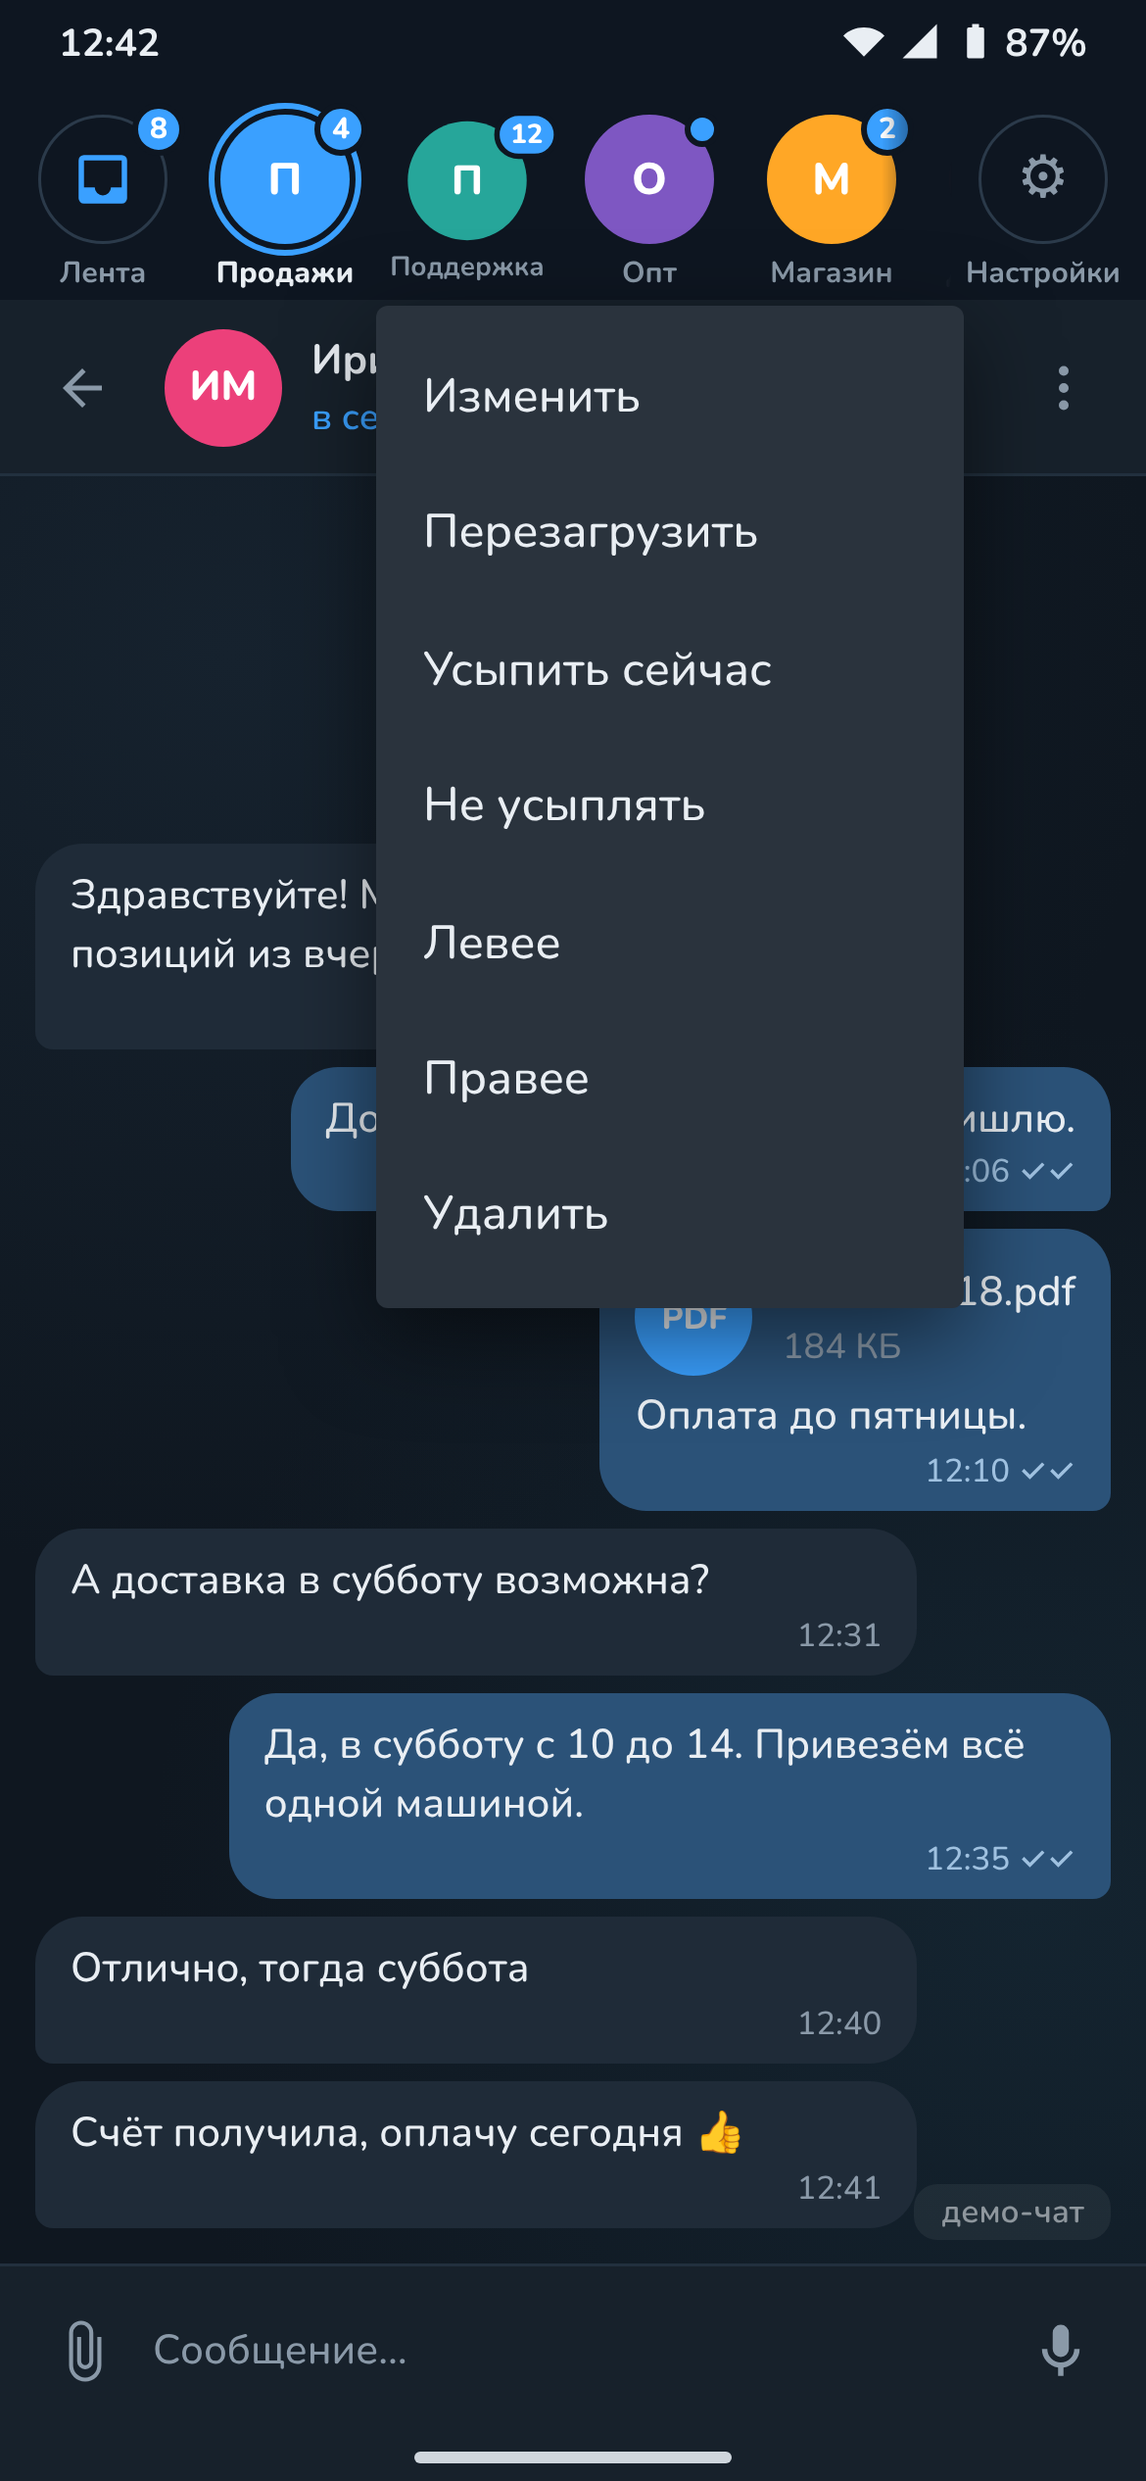
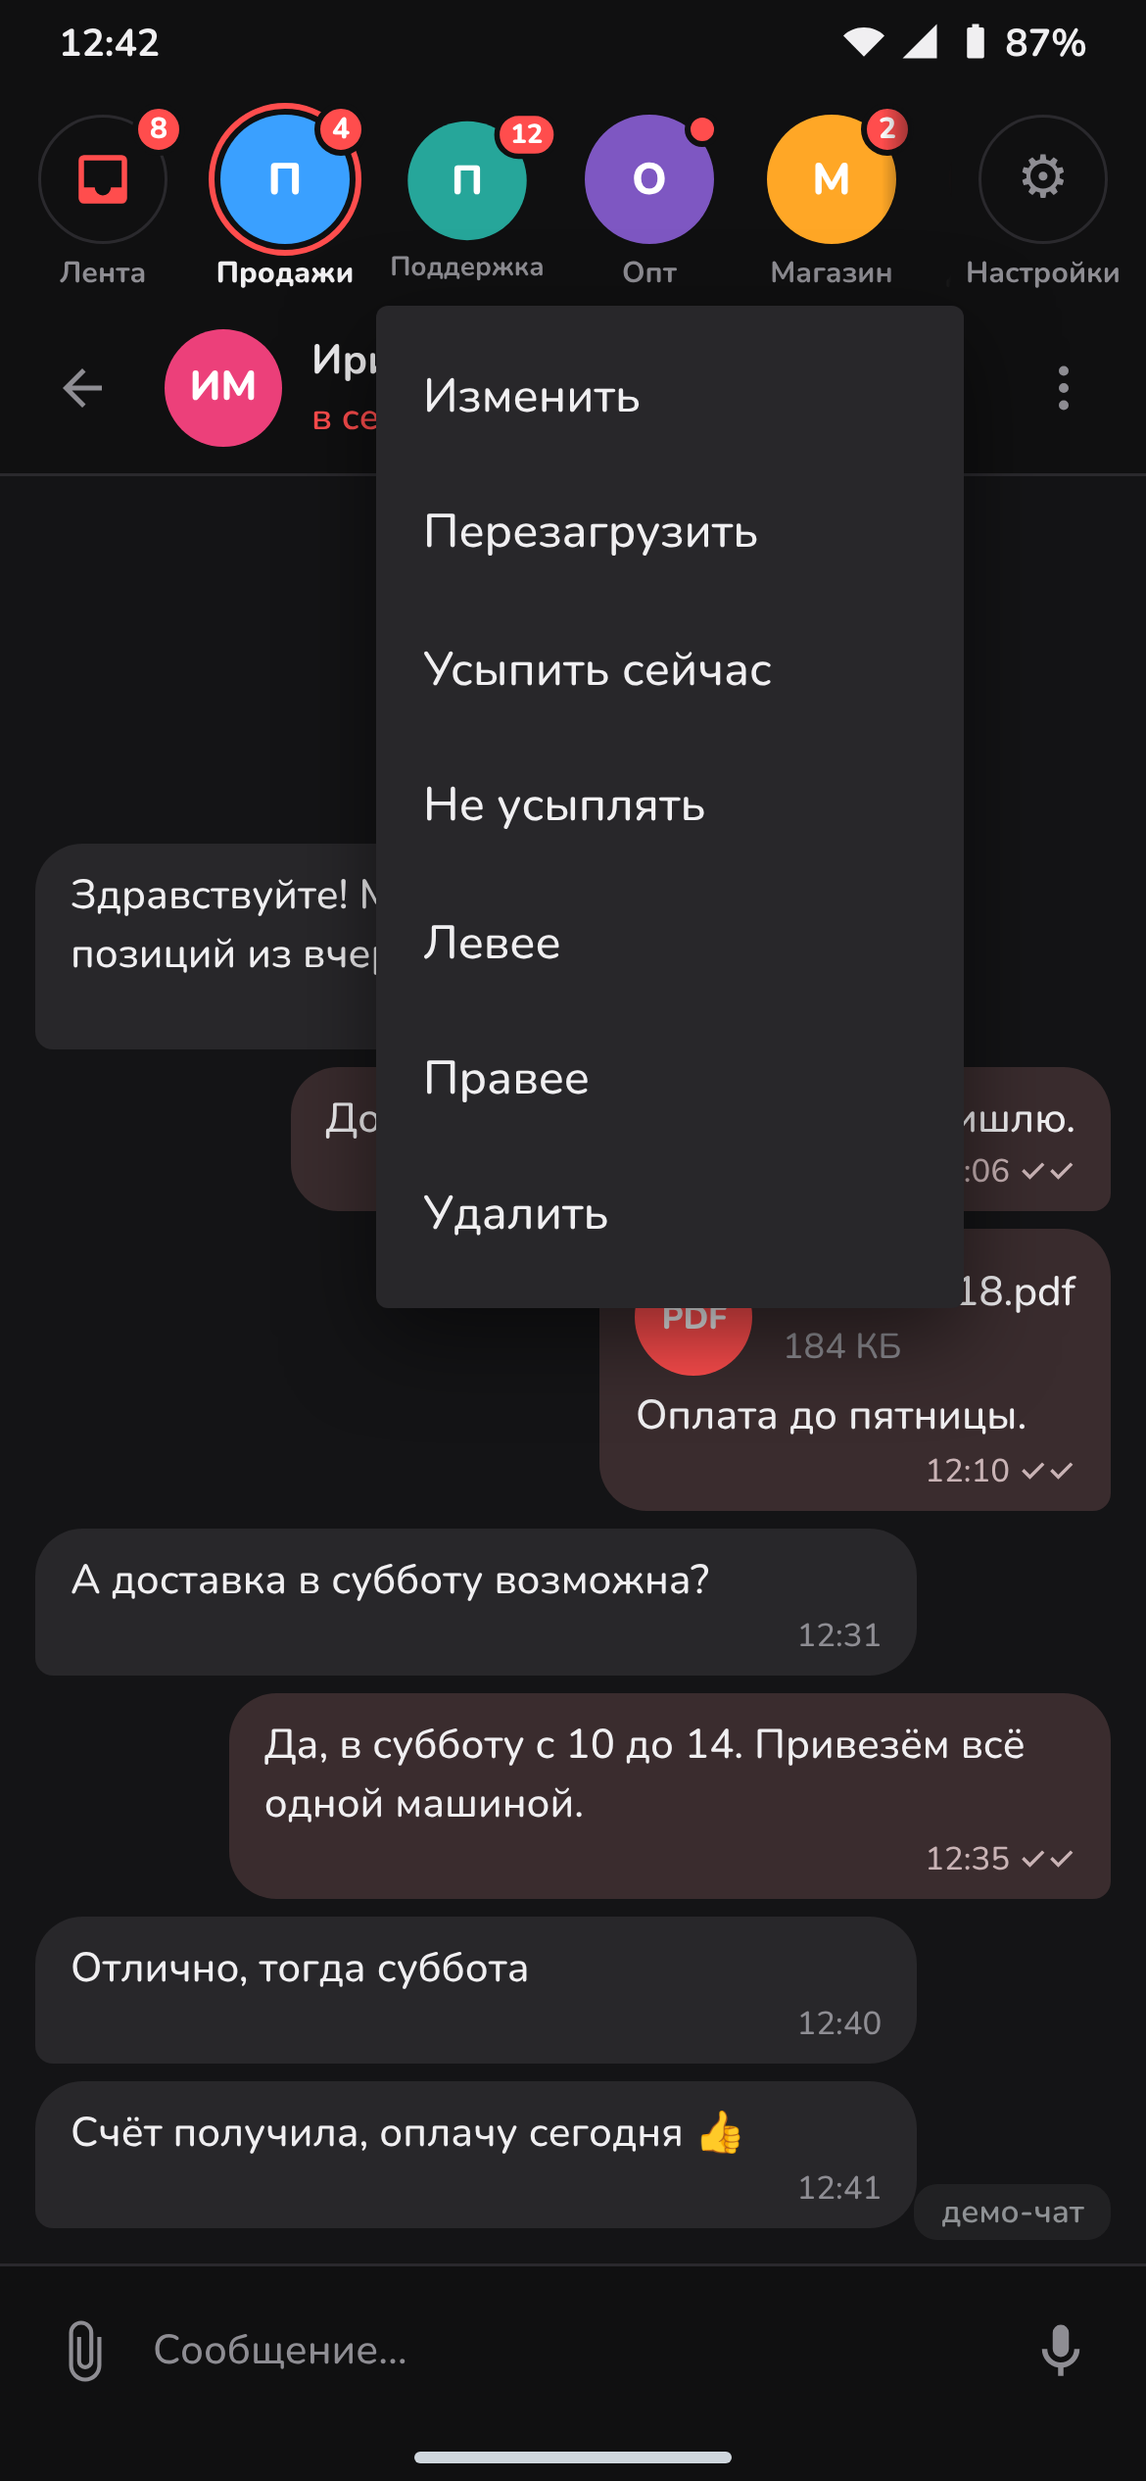
Match Gem Space's palette: near-black surfaces, red accent, light theme too
The rail, overlays and the Android account bar used a navy theme that stood apart from the Gem
Space page next to them. They now use Gem Space's own neutral dark (#101011, #1d1c1f, #2a292d)
and its red (#ff4d4d) for the active account, badges and buttons, with a light variant when the
system is light. A 1px line separates the rail from the page, as Gem Space separates its columns.

Claude-Session: https://claude.ai/code/session_01CRM8nFGG7VZVC9La9kUpL5

diff --git a/desktop/ui/style.css b/desktop/ui/style.css
@@ -7,16 +7,18 @@
 }
 
 :root {
-  --bg: #17212b;
-  --rail: #0e1621;
-  --fg: #e9eef3;
-  --muted: #8a99a8;
-  --accent: #3aa0ff;
-  --accent-soft: rgba(58, 160, 255, .18);
-  --danger: #ef5350;
-  --card: #1f2b38;
-  --line: #2b3a4a;
-  --hover: rgba(127, 127, 127, .12);
+  /* Gem Space's own palette, so the rail reads as part of the page next to it */
+  --bg: #101011;
+  --rail: #101011;
+  --fg: #f0eff1;
+  --muted: #8e8d93;
+  --accent-rgb: 255, 77, 77;
+  --accent: rgb(var(--accent-rgb));
+  --accent-soft: rgba(var(--accent-rgb), .16);
+  --danger: #ff4d4d;
+  --card: #1d1c1f;
+  --line: #2a292d;
+  --hover: rgba(255, 255, 255, .06);
   --font: "Nunito", "Segoe UI", system-ui, sans-serif;
   --ease: cubic-bezier(.2, .8, .2, 1);
   --fast: 140ms;
@@ -25,12 +27,13 @@
 }
 @media (prefers-color-scheme: light) {
   :root {
-    --bg: #f4f6f8;
-    --rail: #e6eaee;
-    --fg: #17212b;
-    --muted: #5d6b78;
+    --bg: #ffffff;
+    --rail: #f4f4f5;
+    --fg: #18181b;
+    --muted: #6e6d73;
     --card: #ffffff;
-    --line: #d6dde3;
+    --line: #e4e4e7;
+    --hover: rgba(0, 0, 0, .05);
     color-scheme: light;
   }
 }
@@ -43,7 +46,8 @@ button:focus-visible, input:focus-visible { outline: 2px solid var(--accent); ou
 
 /* ---------- rail: every tile is 64 x 64 with a 42 px avatar, so tiles, + and the gear line up ---------- */
 #rail { position: fixed; top: 0; left: 0; bottom: 0; width: 76px; display: flex; flex-direction: column;
-  align-items: center; padding: 10px 0; gap: 4px; background: var(--rail); overflow-y: auto; overflow-x: hidden; scrollbar-width: none; }
+  align-items: center; padding: 10px 0; gap: 4px; background: var(--rail); overflow-y: auto; overflow-x: hidden; scrollbar-width: none;
+  box-shadow: inset -1px 0 var(--line); }
 #rail::-webkit-scrollbar { display: none; }
 #tiles { display: flex; flex-direction: column; gap: 4px; align-items: center; position: relative; }
 .tile { position: relative; width: 64px; height: 66px; border: 0; background: none; padding: 0; border-radius: 14px;
@@ -178,7 +182,7 @@ kbd { font: 700 12px/1 var(--font); padding: 2px 6px; border-radius: 5px; border
 .feed-empty svg { width: 40px; height: 40px; fill: currentColor; opacity: .6; margin-bottom: 6px; }
 .feed-empty b { color: var(--fg); font-size: 16px; }
 /* ---------- first start ---------- */
-#overlay.welcome-mode { background: radial-gradient(ellipse 70% 55% at 50% 0%, rgba(58, 160, 255, .16), transparent 70%), var(--bg); }
+#overlay.welcome-mode { background: radial-gradient(ellipse 70% 55% at 50% 0%, rgba(var(--accent-rgb), .16), transparent 70%), var(--bg); }
 #overlay.welcome-mode .sheet { width: min(760px, 100%); padding: 40px 32px; margin: auto 0; }
 #overlay.welcome-mode .sheet header { display: none; }
 .welcome { display: flex; flex-direction: column; align-items: center; text-align: center; }
@@ -189,7 +193,7 @@ kbd { font: 700 12px/1 var(--font); padding: 2px 6px; border-radius: 5px; border
 .welcome > :nth-child(5) { animation-delay: 320ms; }
 .welcome > :nth-child(6) { animation-delay: 380ms; }
 .w-logo { margin-bottom: 18px; animation: logo-in 600ms var(--ease) both; }
-.w-logo img { width: 104px; height: 104px; display: block; filter: drop-shadow(0 16px 36px rgba(58, 160, 255, .35));
+.w-logo img { width: 104px; height: 104px; display: block; filter: drop-shadow(0 16px 36px rgba(0, 0, 0, .45));
   animation: float 3.6s ease-in-out 700ms infinite; }
 .welcome h1 { font-size: 40px; font-weight: 900; letter-spacing: -.02em; margin: 0; }
 .w-sub { font-size: 17px; color: var(--muted); font-weight: 600; margin: 6px 0 30px; }
@@ -197,14 +201,14 @@ kbd { font: 700 12px/1 var(--font); padding: 2px 6px; border-radius: 5px; border
 .feature { display: flex; flex-direction: column; align-items: flex-start; gap: 4px; text-align: left; padding: 16px; border-radius: 16px;
   background: var(--card); border: 1px solid var(--line); animation: rise 420ms var(--ease) both;
   transition: transform var(--fast) var(--ease), border-color var(--fast) ease; }
-.feature:hover { transform: translateY(-2px); border-color: rgba(58, 160, 255, .5); }
+.feature:hover { transform: translateY(-2px); border-color: rgba(var(--accent-rgb), .5); }
 .feature:nth-child(1) { animation-delay: 200ms; } .feature:nth-child(2) { animation-delay: 250ms; }
 .feature:nth-child(3) { animation-delay: 300ms; } .feature:nth-child(4) { animation-delay: 350ms; }
 .f-ic { width: 38px; height: 38px; border-radius: 12px; display: grid; place-items: center; background: var(--accent-soft); color: var(--accent); margin-bottom: 8px; }
 .f-ic svg { width: 20px; height: 20px; fill: currentColor; }
 .feature b { font-size: 14px; font-weight: 800; }
 .feature span:last-child { font-size: 12.5px; color: var(--muted); line-height: 1.4; }
-.btn.big { padding: 14px 30px; font-size: 16px; border-radius: 14px; box-shadow: 0 10px 28px rgba(58, 160, 255, .32); }
+.btn.big { padding: 14px 30px; font-size: 16px; border-radius: 14px; box-shadow: 0 10px 28px rgba(var(--accent-rgb), .32); }
 .btn.big:hover { filter: brightness(1.1); }
 .w-note { font-size: 12.5px; color: var(--muted); margin: 16px 0 0; line-height: 1.6; }
 @media (max-width: 720px) { .features { grid-template-columns: repeat(2, 1fr); } }

diff --git a/android/app/src/main/java/app/gemspace/allinone/MainActivity.kt b/android/app/src/main/java/app/gemspace/allinone/MainActivity.kt
@@ -219,14 +219,14 @@ class MainActivity : AppCompatActivity() {
                 setPadding(dp(14), dp(12), dp(14), dp(12))
                 background = GradientDrawable().apply {
                     cornerRadius = dp(16).toFloat()
-                    setColor(ContextCompat.getColor(context, R.color.bar))
+                    setColor(ContextCompat.getColor(context, R.color.card))
                     setStroke(dp(1), ContextCompat.getColor(context, R.color.line))
                 }
                 addView(ImageView(context).apply {
                     setImageResource(icon)
-                    setColorFilter(0xFF3AA0FF.toInt())
+                    setColorFilter(ContextCompat.getColor(this@MainActivity, R.color.accent))
                     setPadding(dp(9), dp(9), dp(9), dp(9))
-                    background = GradientDrawable().apply { cornerRadius = dp(12).toFloat(); setColor(0x2E3AA0FF) }
+                    background = GradientDrawable().apply { cornerRadius = dp(12).toFloat(); setColor(0x29FF4D4D) }
                 }, LinearLayout.LayoutParams(dp(38), dp(38)).apply { marginEnd = dp(14) })
                 addView(LinearLayout(context).apply {
                     orientation = LinearLayout.VERTICAL
@@ -242,7 +242,7 @@ class MainActivity : AppCompatActivity() {
             addView(TextView(context).apply {
                 text = "Добавить первый аккаунт"; gravity = Gravity.CENTER; textSize = 16f; typeface = fontHeavy
                 setTextColor(Color.WHITE); setPadding(dp(24), dp(15), dp(24), dp(15))
-                background = GradientDrawable().apply { cornerRadius = dp(14).toFloat(); setColor(0xFF3AA0FF.toInt()) }
+                background = GradientDrawable().apply { cornerRadius = dp(14).toFloat(); setColor(ContextCompat.getColor(this@MainActivity, R.color.accent)) }
                 elevation = dp(6).toFloat()
                 setOnClickListener { editAccount(null) }
             }, LinearLayout.LayoutParams(ViewGroup.LayoutParams.MATCH_PARENT, ViewGroup.LayoutParams.WRAP_CONTENT).apply { topMargin = dp(14) })
@@ -322,7 +322,7 @@ class MainActivity : AppCompatActivity() {
     /** The feed button left of the accounts, shaped like an account tile, with the count of new messages. */
     private fun renderFeedTile() {
         feedSlot.removeAllViews()
-        val accent = 0xFF3AA0FF.toInt()
+        val accent = ContextCompat.getColor(this@MainActivity, R.color.accent)
         val n = feed.size
         val tile = tileFrame("Лента").apply { setOnClickListener { openFeed() } }
         tile.addView(ImageView(this).apply {
@@ -389,7 +389,7 @@ class MainActivity : AppCompatActivity() {
                 setPadding(dp(12), dp(10), dp(12), dp(10))
                 background = GradientDrawable().apply {
                     cornerRadius = dp(14).toFloat()
-                    setColor(ContextCompat.getColor(context, R.color.page))
+                    setColor(ContextCompat.getColor(context, R.color.card))
                     setStroke(dp(1), ContextCompat.getColor(context, R.color.line))
                 }
                 isClickable = true
@@ -407,7 +407,7 @@ class MainActivity : AppCompatActivity() {
             val texts = LinearLayout(this).apply { orientation = LinearLayout.VERTICAL }
             val top = LinearLayout(this).apply { orientation = LinearLayout.HORIZONTAL }
             top.addView(TextView(this).apply {
-                text = a.name; textSize = 12f; typeface = fontHeavy; setTextColor(0xFF3AA0FF.toInt()); maxLines = 1
+                text = a.name; textSize = 12f; typeface = fontHeavy; setTextColor(ContextCompat.getColor(this@MainActivity, R.color.accent)); maxLines = 1
                 ellipsize = android.text.TextUtils.TruncateAt.END
             }, LinearLayout.LayoutParams(0, ViewGroup.LayoutParams.WRAP_CONTENT, 1f))
             top.addView(TextView(this).apply { text = feedTime(item.time); textSize = 12f; setTextColor(muted) })
@@ -449,7 +449,7 @@ class MainActivity : AppCompatActivity() {
     private fun render() {
         renderFeedTile()
         strip.removeAllViews()
-        val accent = 0xFF3AA0FF.toInt()
+        val accent = ContextCompat.getColor(this@MainActivity, R.color.accent)
         for (a in store.accounts) {
             val active = a.id == store.active
             val tile = tileFrame(a.name).apply {

diff --git a/docs/demo/chat.css b/docs/demo/chat.css
@@ -1,15 +1,15 @@
 /* A generic made-up messenger page for demo screenshots. It is NOT Gem Space's interface:
    in the app this place shows the real web.gemspace.com of the account. */
 @font-face { font-family: "Nunito"; src: url("../../desktop/ui/fonts/Nunito.woff2") format("woff2"); font-weight: 200 1000; }
-:root { --bg:#0f1720; --side:#17212b; --fg:#e9eef3; --muted:#8a99a8; --me:#2b5278; --them:#1f2b38; --line:#22303e; --acc:#3aa0ff; --sel:#2b5278; }
+:root { --bg:#141416; --side:#101011; --fg:#f0eff1; --muted:#8e8d93; --me:#3a2c2e; --them:#28272a; --line:#2a292d; --acc:#ff4d4d; --sel:#323135; }
 * { box-sizing: border-box; }
 html, body { margin:0; height:100%; font:500 14px/1.4 "Nunito", system-ui, sans-serif; color:var(--fg); background:var(--bg); -webkit-font-smoothing:antialiased; }
 .app { display:flex; height:100%; }
 .list { width:340px; background:var(--side); border-right:1px solid var(--line); display:flex; flex-direction:column; }
-.search { margin:12px; padding:9px 14px; border-radius:18px; background:#0f1720; color:var(--muted); }
+.search { margin:12px; padding:9px 14px; border-radius:18px; background:#323135; color:var(--muted); }
 .item { display:flex; gap:12px; padding:9px 12px; align-items:center; margin:0 6px; border-radius:12px; }
 .item.on { background:var(--sel); }
-.item.on .prev, .item.on .time { color:#c8d6e3; }
+.item.on .prev, .item.on .time { color:#d4d3d8; }
 .av { width:48px; height:48px; border-radius:50%; flex:none; display:grid; place-items:center; color:#fff; font-weight:800; font-size:16px; }
 .meta { flex:1; min-width:0; }
 .row { display:flex; justify-content:space-between; gap:6px; align-items:center; }
@@ -26,15 +26,15 @@ html, body { margin:0; height:100%; font:500 14px/1.4 "Nunito", system-ui, sans-
 .head .ic { width:36px; height:36px; display:grid; place-items:center; color:var(--muted); }
 .head .ic svg { width:20px; height:20px; fill:currentColor; }
 .msgs { flex:1; padding:18px 10% 14px; display:flex; flex-direction:column; gap:6px; justify-content:flex-end;
-  background:radial-gradient(circle at 20% 10%, #16222e 0, transparent 50%), radial-gradient(circle at 90% 80%, #142430 0, transparent 50%), var(--bg); }
+  background:var(--bg); }
 .b { max-width:62%; padding:8px 12px 6px; border-radius:16px 16px 16px 6px; background:var(--them); }
 .b.me { align-self:flex-end; background:var(--me); border-radius:16px 16px 6px 16px; }
 .b i { display:block; text-align:right; font-style:normal; font-size:11px; color:var(--muted); margin-top:1px; }
-.b.me i { color:#9fc1e0; }
+.b.me i { color:#c9b3b5; }
 .b .file { display:flex; gap:10px; align-items:center; padding:2px 0 4px; }
 .b .file span { width:40px; height:40px; border-radius:50%; background:var(--acc); display:grid; place-items:center; font-weight:800; font-size:11px; }
 .b .file small { display:block; color:var(--muted); font-size:12px; }
-.day { align-self:center; font-size:12px; font-weight:700; color:#c8d6e3; background:rgba(255,255,255,.07); padding:3px 12px; border-radius:12px; margin:6px 0; }
+.day { align-self:center; font-size:12px; font-weight:700; color:#d4d3d8; background:rgba(255,255,255,.07); padding:3px 12px; border-radius:12px; margin:6px 0; }
 .input { height:58px; background:var(--side); border-top:1px solid var(--line); display:flex; align-items:center; gap:12px; padding:0 18px; color:var(--muted); }
 .input .sp { flex:1; }
 .input svg { width:22px; height:22px; fill:currentColor; }

diff --git a/docs/demo/phone.html b/docs/demo/phone.html
@@ -4,7 +4,7 @@
      The page below the strip is a made-up chat. ?dialog = new account, ?menu = long-press menu, ?shade = notifications. -->
 <style>
 @font-face { font-family: "Nunito"; src: url("../../desktop/ui/fonts/Nunito.woff2") format("woff2"); font-weight: 200 1000; }
-:root{--bar:#0e1621;--page:#17212b;--fg:#e9eef3;--muted:#8a99a8;--line:#2b3a4a;--acc:#3aa0ff;--float:#2a333d}
+:root{--bar:#101011;--page:#101011;--card:#1d1c1f;--fg:#f0eff1;--muted:#8e8d93;--line:#2a292d;--acc:#ff4d4d;--float:#28272a}
 html,body{margin:0;height:100%;font:500 14px/1.4 "Nunito",system-ui,sans-serif;background:var(--bar);color:var(--fg);overflow:hidden;-webkit-font-smoothing:antialiased}
 .status{height:30px;display:flex;justify-content:space-between;align-items:center;padding:0 20px;font-size:13px;font-weight:700}
 .status svg{width:14px;height:14px;fill:currentColor;margin-left:5px;vertical-align:-2px}
@@ -32,7 +32,7 @@ iframe{border:0;width:100%;height:calc(100% - 102px - 16px);display:block;backgr
 .btns{display:flex;justify-content:flex-end;gap:8px;padding:14px 0 4px;color:var(--acc);font-weight:800;text-transform:uppercase;font-size:14px;letter-spacing:.03em}
 .btns span{padding:10px 8px}
 .dlg.feed{width:350px;padding:20px 10px 6px;max-height:760px;overflow:hidden}.dlg.feed h3{padding:0 14px}
-.fr{display:flex;gap:12px;padding:10px 12px;border-radius:14px;background:var(--page);border:1px solid var(--line);margin-bottom:6px}
+.fr{display:flex;gap:12px;padding:10px 12px;border-radius:14px;background:var(--card);border:1px solid var(--line);margin-bottom:6px}
 .fr .a{width:40px;height:40px;border-radius:50%;display:grid;place-items:center;color:#fff;font-weight:800;flex:none}
 .fr .m{flex:1;min-width:0}.fr .t{display:flex;justify-content:space-between;font-size:12px}.fr .t b{color:var(--acc);font-weight:800}.fr .t span{color:var(--muted)}
 .fr .fn{font-weight:800;font-size:15px;white-space:nowrap;overflow:hidden;text-overflow:ellipsis}.fr .x{color:var(--muted);display:-webkit-box;-webkit-line-clamp:2;-webkit-box-orient:vertical;overflow:hidden}
@@ -60,7 +60,7 @@ iframe{border:0;width:100%;height:calc(100% - 102px - 16px);display:block;backgr
   <div class="n first"><span class="i" style="background:#26a69a" id="i1"></span><div><small>Gemspace · сейчас</small><b>Поддержка · Денис Карпов</b><p>Добрый вечер! Когда будет возврат по заказу 2231?</p></div></div>
   <div class="n mid"><span class="i" style="background:#7e57c2" id="i2"></span><div><small>Gemspace · 2 мин</small><b>Опт · Марк</b><p>Нужно 40 коробок к пятнице</p></div></div>
   <div class="n mid"><span class="i" style="background:#ffa726" id="i3"></span><div><small>Gemspace · 9 мин</small><b>Магазин · Ольга</b><p>Спасибо, всё пришло!</p></div></div>
-  <div class="n last"><span class="i" style="background:#3aa0ff" id="i4"></span><div><small>Gemspace</small><b>Gemspace на связи</b><p>Непрочитанных: 19</p></div></div>
+  <div class="n last"><span class="i" style="background:#ff4d4d" id="i4"></span><div><small>Gemspace</small><b>Gemspace на связи</b><p>Непрочитанных: 19</p></div></div>
 </div>
 <script>
 // same accounts as docs/demo/demo-state.js: name, color, unread, attention, active, awake
